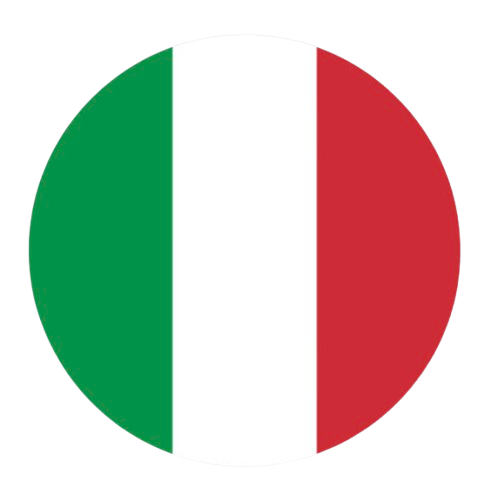
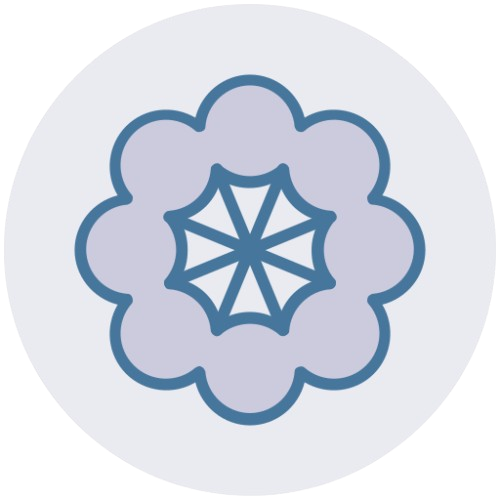
final (for now) - floating window

diff --git a/Navigator/extension/content_script.js b/Navigator/extension/content_script.js
@@ -61,7 +61,7 @@
     const style = document.createElement("style");
     style.id = "navigator-highlight-style";
     // Using a nice transparent version of your #3a6df0 blue
-    style.textContent = `::highlight(navigator-selection) { background-color: #3a6df0 !important; color: #ffffff !important; }`;
+    style.textContent = `::highlight(navigator-selection) { background-color: #6879a3ff !important; color: #ffffff !important; }`;
     document.head.appendChild(style);
   }
 
@@ -508,13 +508,18 @@
           position: relative;
         }
 
-        /* Common Styling for Input and Result Views */
+        /* Common Styling for Input and Result Views (Cinematic slide-and-fade) */
         .view {
           position: absolute;
           width: 100%;
           top: 0;
           opacity: 0;
-          transition: opacity 0.35s ease-in-out;
+          transform: translateY(12px) scale(0.97);
+          filter: blur(5px);
+          transition: 
+            opacity 0.45s cubic-bezier(0.16, 1, 0.3, 1), 
+            transform 0.45s cubic-bezier(0.16, 1, 0.3, 1),
+            filter 0.45s cubic-bezier(0.16, 1, 0.3, 1);
           pointer-events: none; /* Block interactions when hidden */
           display: block; /* Use block, control visibility via opacity */
         }
@@ -522,25 +527,55 @@
         .view.active {
           position: relative; /* Take up space for height calculation */
           opacity: 1;
+          transform: translateY(0) scale(1);
+          filter: blur(0px);
           pointer-events: auto; /* Enable interaction */
         }
 
-        /* --- Neural Glow Edge (Rotating Inner Border) --- */
-        .wrap.busy .neural-glow {
+        /* --- Full Window Scanning Scanline --- */
+        .wrap::before {
+          content: '';
           position: absolute;
-          top: 0; left: 0; right: 0; bottom: 0;
-          border-radius: 18px;
-          padding: 2px;
-          background: linear-gradient(135deg, rgba(94, 92, 230, 0.8), rgba(130, 240, 255, 0.9), rgba(94, 92, 230, 0.8));
-          -webkit-mask: linear-gradient(#fff 0 0) content-box, linear-gradient(#fff 0 0);
-          -webkit-mask-composite: destination-out;
-          mask-composite: exclude;
+          inset: 0;
+          background: linear-gradient(to bottom, transparent, rgba(130, 240, 255, 0.15), transparent);
+          transform: translateY(-100%);
+          pointer-events: none;
+          z-index: 5;
           opacity: 0;
           transition: opacity 0.3s ease;
         }
+        .wrap.busy::before {
+          opacity: 1;
+          animation: scanLine 2s cubic-bezier(0.4, 0, 0.2, 1) infinite;
+        }
+
+        @keyframes scanLine {
+          0% { transform: translateY(-100%); }
+          100% { transform: translateY(100%); }
+        }
+
+        /* --- Neural Glow Edge (Rotating Inner Border) & full container color drift --- */
+        .neural-glow {
+          position: absolute;
+          inset: 0;
+          border-radius: 18px;
+          pointer-events: none;
+          opacity: 0;
+          /* Animated color drift when busy */
+          background: radial-gradient(circle at 20% 30%, rgba(94, 92, 230, 0.25), transparent 50%),
+                      radial-gradient(circle at 80% 70%, rgba(249, 81, 165, 0.25), transparent 50%);
+          mix-blend-mode: screen;
+          transition: opacity 0.5s ease;
+          z-index: 1;
+        }
         .wrap.busy .neural-glow { 
           opacity: 1; 
-          animation: glowRotate 2s linear infinite; 
+          animation: neuralPulse 3s ease-in-out infinite alternate;
+        }
+
+        @keyframes neuralPulse {
+          0% { filter: hue-rotate(0deg); }
+          100% { filter: hue-rotate(90deg); }
         }
 
         /* --- Outer Radiant Glow Backdrop (Escapes overflow: hidden) --- */
@@ -555,12 +590,15 @@
         }
 
         /* When the panel is busy, ignite the backdrop with synced rotation and breathing */
+        /*UNCOMMENT THE FOLLOWING TO HAVE THE BORDER GLOW AS WELL*/
+        /*
         .wrap.busy ~ .glow-backdrop {
           opacity: 1;
           animation: 
             glowRotate 2s linear infinite, 
             radiantPulse 1.5s ease-in-out infinite alternate;
         }
+        */
 
         @keyframes glowRotate { 
           100% { filter: hue-rotate(360deg); } 
@@ -624,7 +662,7 @@
           overflow-y: auto;
           
           /* Added smooth ease-out for a gradual glow transition */
-          transition: border-color 0.25s ease-out, box-shadow 0.25s ease-out;
+          transition: border-color 0.25s ease-out, box-shadow 0.25s ease-out, opacity 0.3s ease;
         }
 
         textarea:focus { 
@@ -639,6 +677,18 @@
           display: flex;
           gap: 6px;
           align-self: flex-end; /* Anchors the buttons to the bottom right under the text */
+          transition: opacity 0.3s cubic-bezier(0.16, 1, 0.3, 1), transform 0.3s cubic-bezier(0.16, 1, 0.3, 1);
+        }
+
+        /* --- Hide buttons smoothly when busy --- */
+        .wrap.busy .action-btns {
+          opacity: 0;
+          transform: translateY(12px);
+          pointer-events: none;
+        }
+        .wrap.busy textarea {
+          opacity: 0.4;
+          pointer-events: none;
         }
 
         /* --- Action & Submission Buttons (Uniform Glassmorphism) --- */
@@ -668,7 +718,6 @@
         .btn-edit, .btn-replace {
           background: rgba(255, 255, 255, 0.06);
           color: #f2f2f7;
-          border-color: rgba(94, 92, 230, 0.3);
         }
         .btn-edit:hover:not(:disabled), .btn-replace:hover { 
           background: rgba(94, 92, 230, 0.28);
@@ -937,13 +986,13 @@
             input.style.height = `${Math.min(input.scrollHeight, 160)}px`;
           }, 0);
         } else if (e.ctrlKey || e.metaKey) {
-          // Ctrl+Enter or Cmd+Enter triggers the "Ask" flow
-          e.preventDefault();
-          submit("ask");
-        } else {
-          // Regular Enter triggers the primary "Edit" flow
+          // Ctrl+Enter or Cmd+Enter triggers the "Edit" flow
           e.preventDefault();
           submit("edit");
+        } else {
+          // Regular Enter triggers the primary "Ask" flow
+          e.preventDefault();
+          submit("ask");
         }
       }
       if (e.key === "Escape") closeActiveBox();